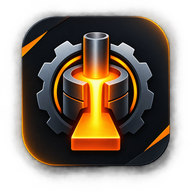
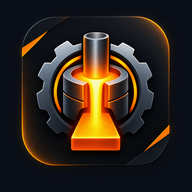
fix(pwa): remove bordas brancas do ícone no iPhone/Android
Os PNGs do ícone (icon-192/icon-512/icon.png) tinham cantos
transparentes ao redor do quadrado arredondado já desenhado na
própria imagem (com um leve brilho/sombra vazando pra fora dele).
iOS e Android não preservam essa transparência ao aplicar a própria
máscara (squircle/círculo) no ícone da tela inicial — pintam de
branco por baixo, daí a borda branca em volta do ícone escuro.

Corrigido preenchendo o canvas inteiro (sem transparência) com a
mesma cor de fundo do app (#0a0e17, igual background_color do
manifest.json), de ponta a ponta — agora o SO aplica a própria
máscara sobre um fundo escuro, sem sobrar branco nenhum.

Versão dos arquivos bump de ?v=3 pra ?v=4 (index.html, app.html,
manifest.json, service-worker.js) pra forçar o navegador/telefone a
buscar o ícone novo em vez de servir o antigo do cache. CACHE_VERSION
do service worker também avançou (v79 -> v80).

diff --git a/service-worker.js b/service-worker.js
@@ -11,7 +11,7 @@
 // usando a copia antiga guardada em cache.
 // ==============================================================
 
-const CACHE_VERSION = "oms-v79";
+const CACHE_VERSION = "oms-v80";
 
 // 🔧 CORREÇÃO: essa lista estava com os caminhos de uma estrutura de
 // pastas antiga (tudo direto na raiz) — o projeto hoje guarda os JS
@@ -57,8 +57,8 @@ const ARQUIVOS_PARA_CACHE = [
     "./vendor/three/addons/geometries/RoundedBoxGeometry.js",
     "./vendor/three/addons/utils/BufferGeometryUtils.js",
     "./manifest.json",
-    "./JS/assets/icon-192.png?v=3",
-    "./JS/assets/icon-512.png?v=3"
+    "./JS/assets/icon-192.png?v=4",
+    "./JS/assets/icon-512.png?v=4"
 ];
 
 // --------------------------------------------------------------
@@ -177,8 +177,8 @@ self.addEventListener("push", (event) => {
     event.waitUntil(
         self.registration.showNotification(dados.titulo, {
             body: dados.corpo,
-            icon: "./JS/assets/icon-192.png?v=3",
-            badge: "./JS/assets/icon-192.png?v=3",
+            icon: "./JS/assets/icon-192.png?v=4",
+            badge: "./JS/assets/icon-192.png?v=4",
             // 🆕 Guarda o payload INTEIRO (não só `url`) — agora o
             // backend manda tipo_evento/atividade_id/area junto pra
             // eventos de Atividade da Oficina (ver dados_extra em

diff --git a/app.html b/app.html
@@ -46,7 +46,7 @@
     <!-- ============ PWA: permite instalar o app no Android/iPhone ============ -->
     <link rel="manifest" href="manifest.json">
     <meta name="theme-color" content="#f59e0b">
-    <link rel="apple-touch-icon" href="JS/assets/icon-192.png?v=3">
+    <link rel="apple-touch-icon" href="JS/assets/icon-192.png?v=4">
     <!-- 🆕 BOTÃO INSTALAR APP — captura o evento ASSIM QUE POSSÍVEL (ver
          mesmo bloco em index.html). -->
     <script>
@@ -69,7 +69,7 @@
 
     <link rel="stylesheet" href="style.css?v=9" />
     <link rel="stylesheet" href="https://cdnjs.cloudflare.com/ajax/libs/font-awesome/6.4.0/css/all.min.css" />
-    <link rel="icon" href="JS/assets/icon-192.png?v=3">
+    <link rel="icon" href="JS/assets/icon-192.png?v=4">
 
 <script src="https://cdnjs.cloudflare.com/ajax/libs/html2pdf.js/0.10.1/html2pdf.bundle.min.js"></script>
     <style>

diff --git a/index.html b/index.html
@@ -22,8 +22,8 @@
 
     <link rel="manifest" href="manifest.json">
     <meta name="theme-color" content="#0d0b08">
-    <link rel="icon" href="JS/assets/icon-192.png?v=3">
-    <link rel="apple-touch-icon" href="JS/assets/icon-192.png?v=3">
+    <link rel="icon" href="JS/assets/icon-192.png?v=4">
+    <link rel="apple-touch-icon" href="JS/assets/icon-192.png?v=4">
     <!-- 🆕 BOTÃO INSTALAR APP — captura o evento ASSIM QUE POSSÍVEL (bem
          no <head>, antes de qualquer outra coisa carregar). O Chrome/Edge
          disparam "beforeinstallprompt" logo depois do load da página; se
